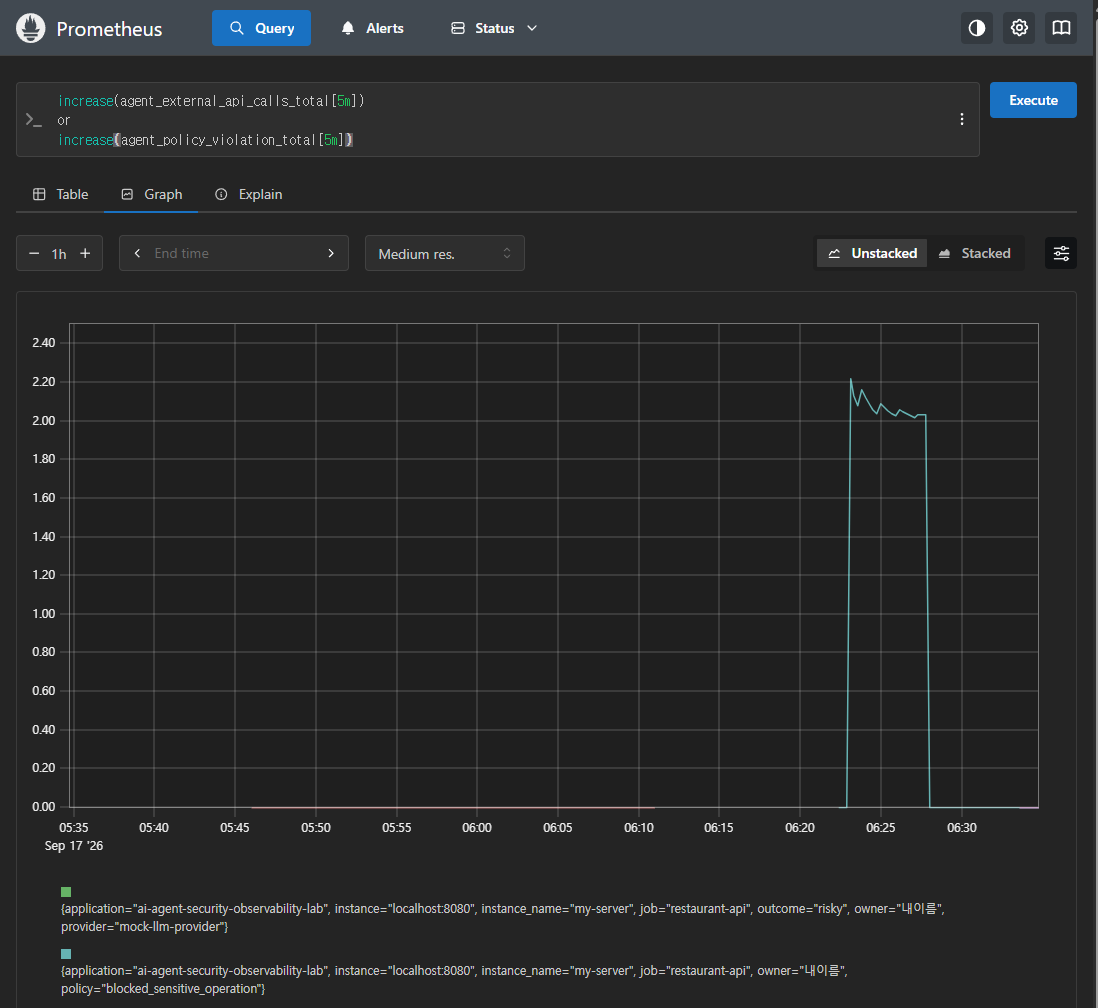
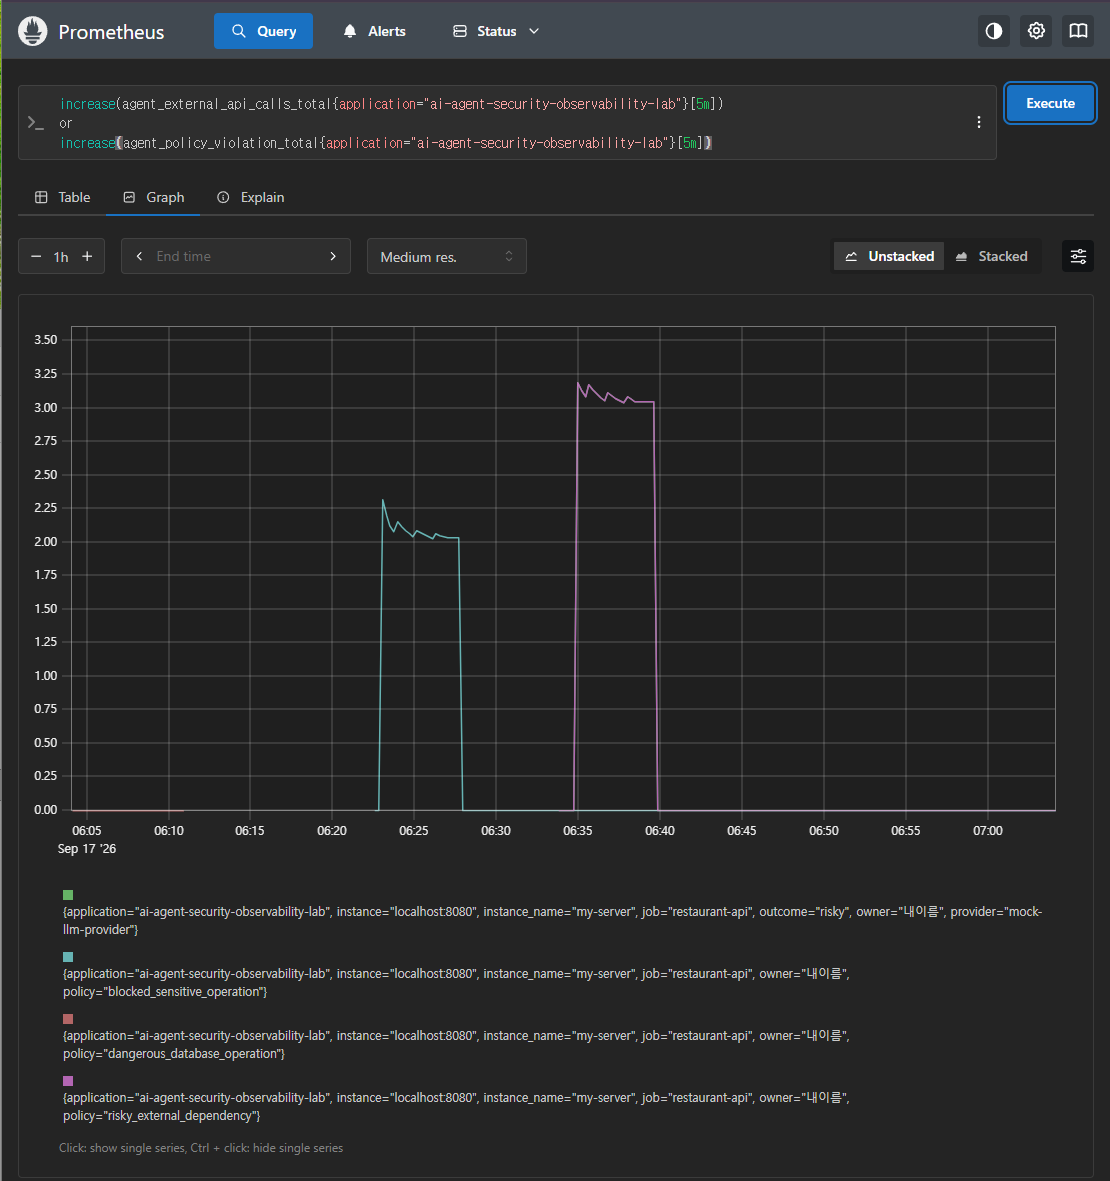
docs: refine external API policy violation evidence

diff --git a/PORTFOLIO.md b/PORTFOLIO.md
@@ -271,7 +271,9 @@ Evidence:
 Interpretation:
 
 ```text
-External API access and policy violation were observed in the same time window.
+An external API call occurred with a risky outcome.
+At the same time, the policy violation metric increased with the blocked_sensitive_operation policy.
+This means external dependency access and policy violation were observed in the same time window.
 This pattern indicates that a risky agent request moved toward an external dependency.
 ```
 
